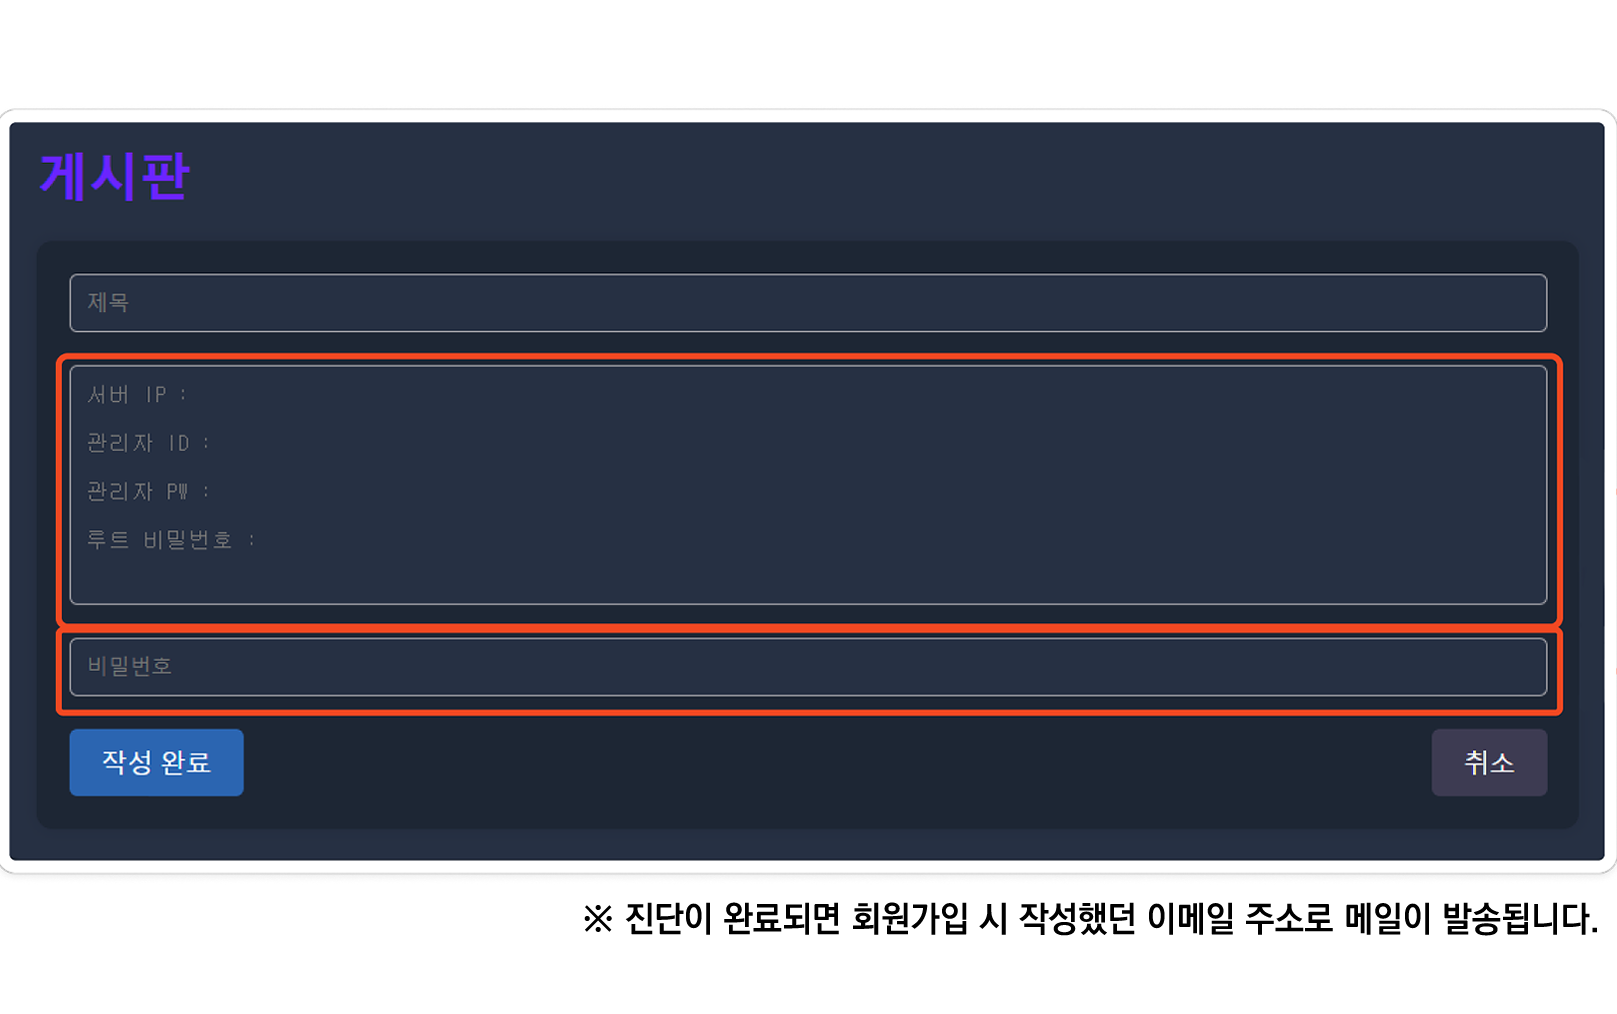
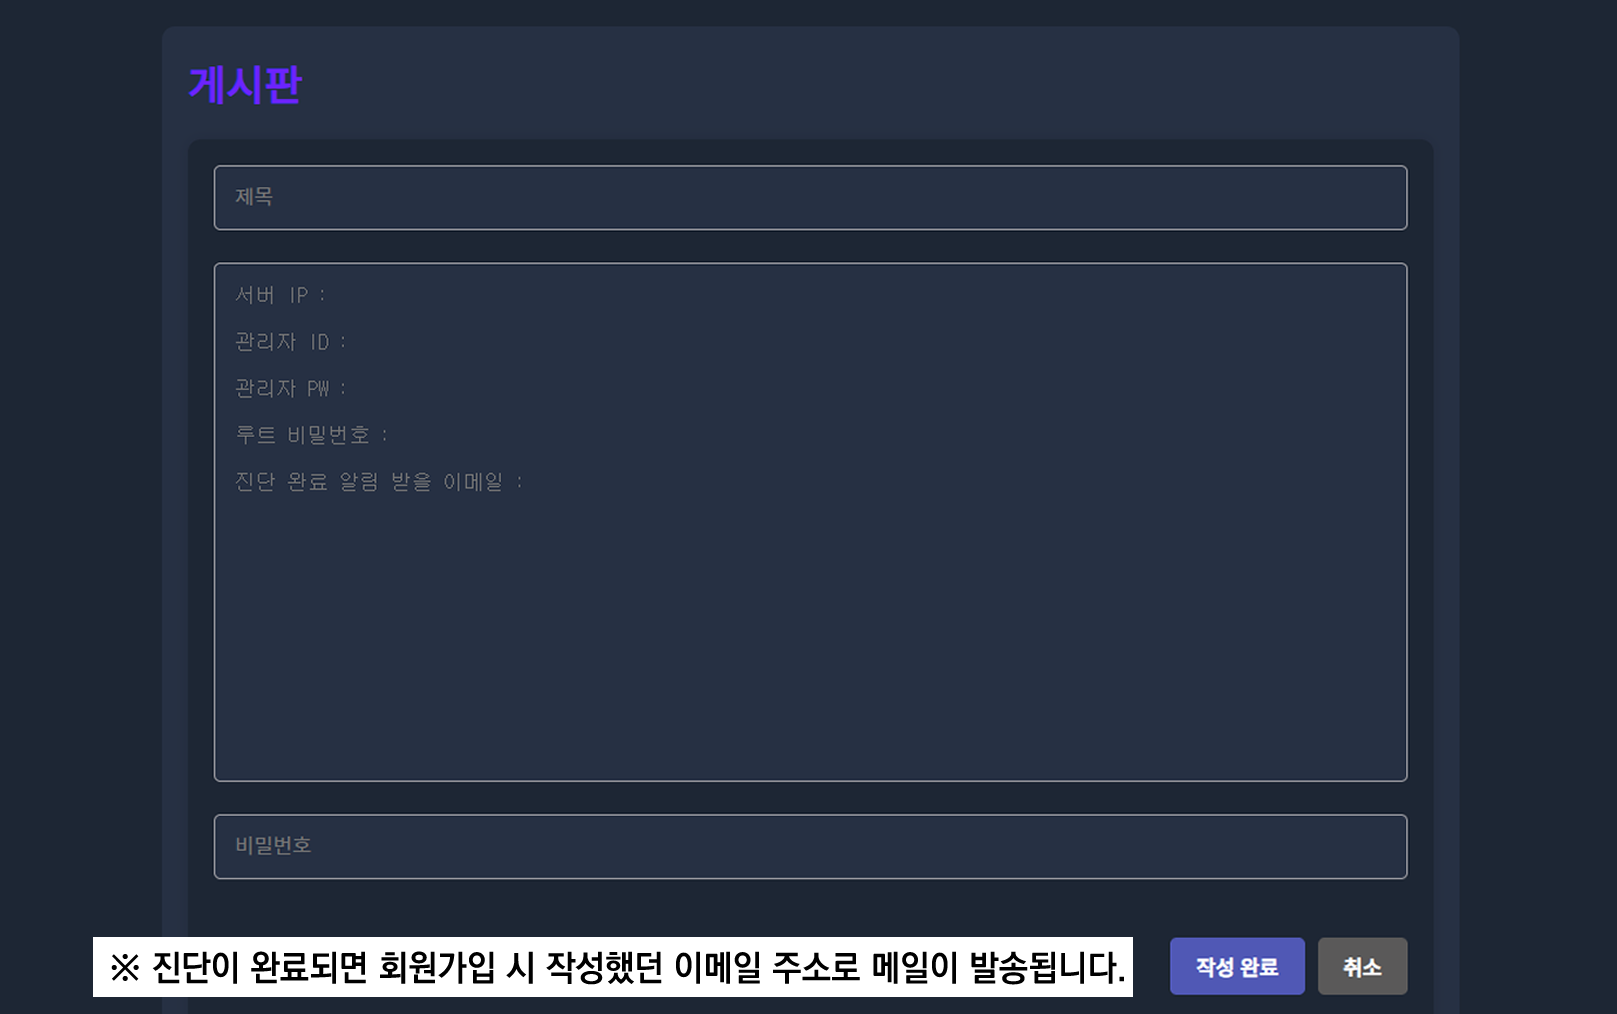
글 색, 가이드 수정

diff --git a/client/SiteGuide.jsx b/client/SiteGuide.jsx
@@ -67,6 +67,7 @@ function SiteGuide() {
                   <p>관리자 IP:</p>
                   <p>관리자 PW:</p>
                   <p>루트 비밀번호:</p>
+                  <p>진단 완료 안내 받은 이메일:</p>
                 </div>
                 <br />
                 <p>비밀번호는 잊지 않도록 주의해주세요.</p>

diff --git a/client/FindUserIdComponent.css b/client/FindUserIdComponent.css
@@ -60,5 +60,5 @@
   margin-top: 30px;
   font-weight: bold;
   font-size: 24px;
-  color: #333;
+  color: #dddddd;
 }
